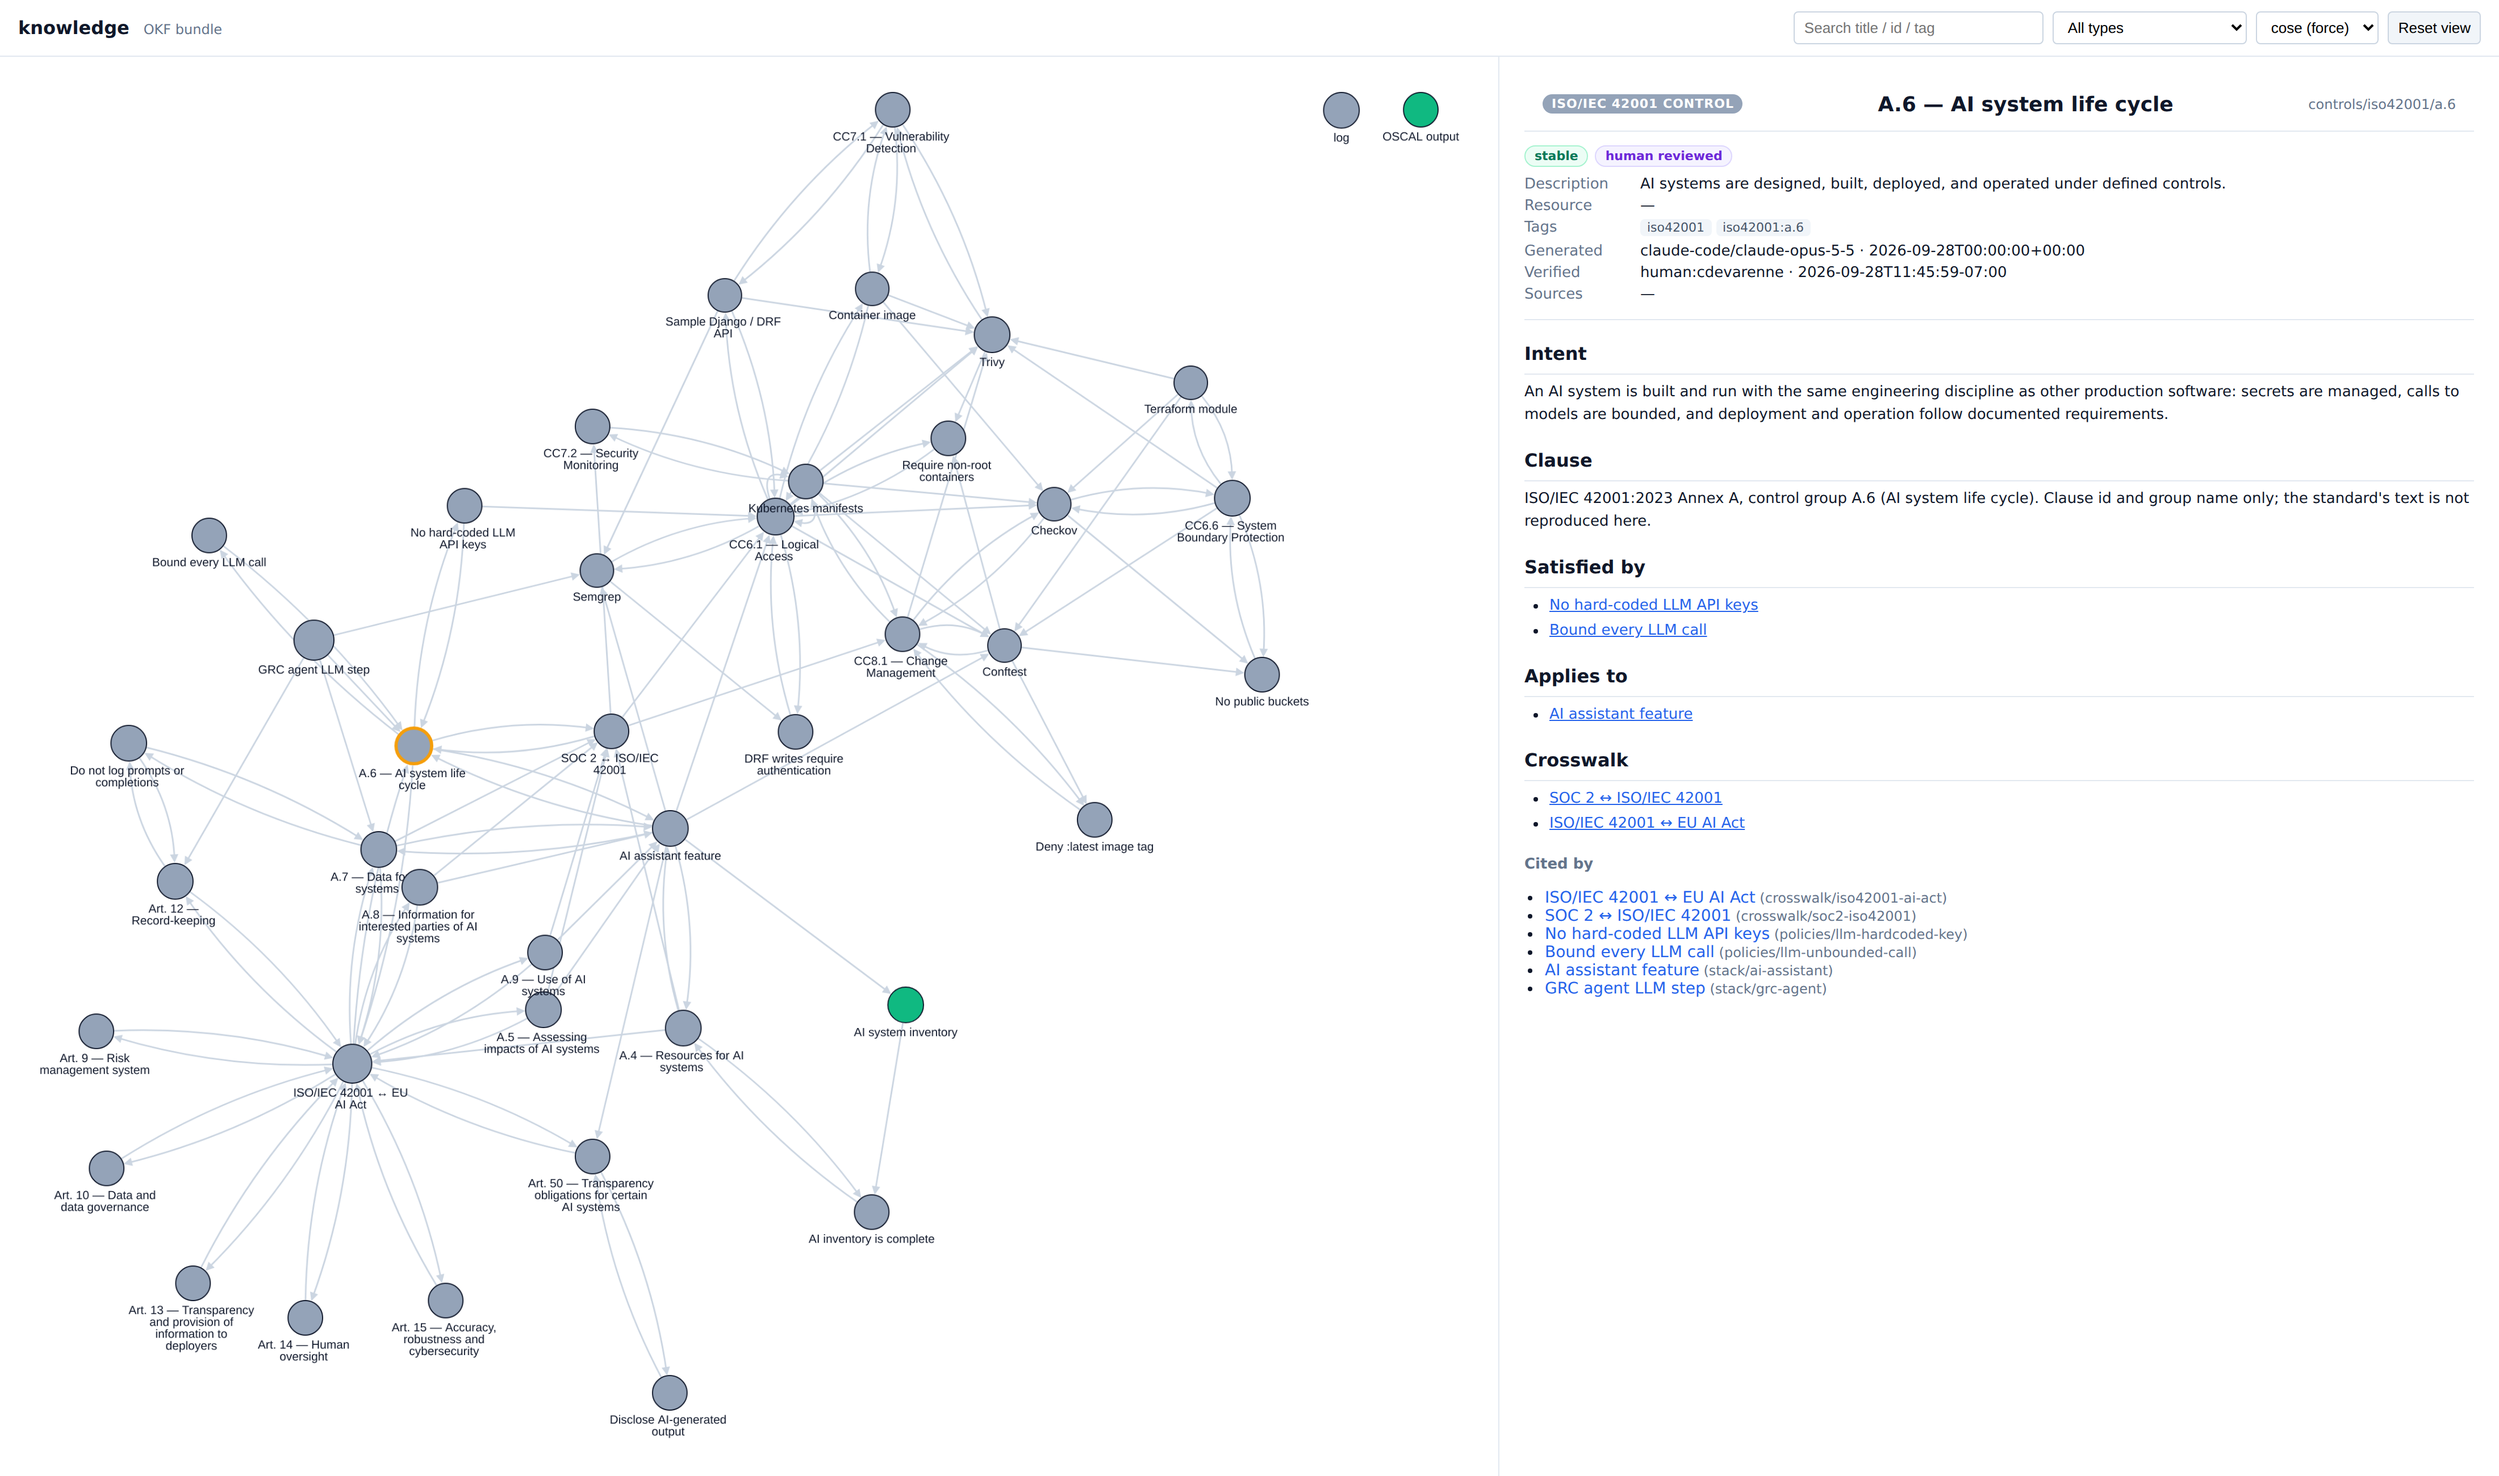
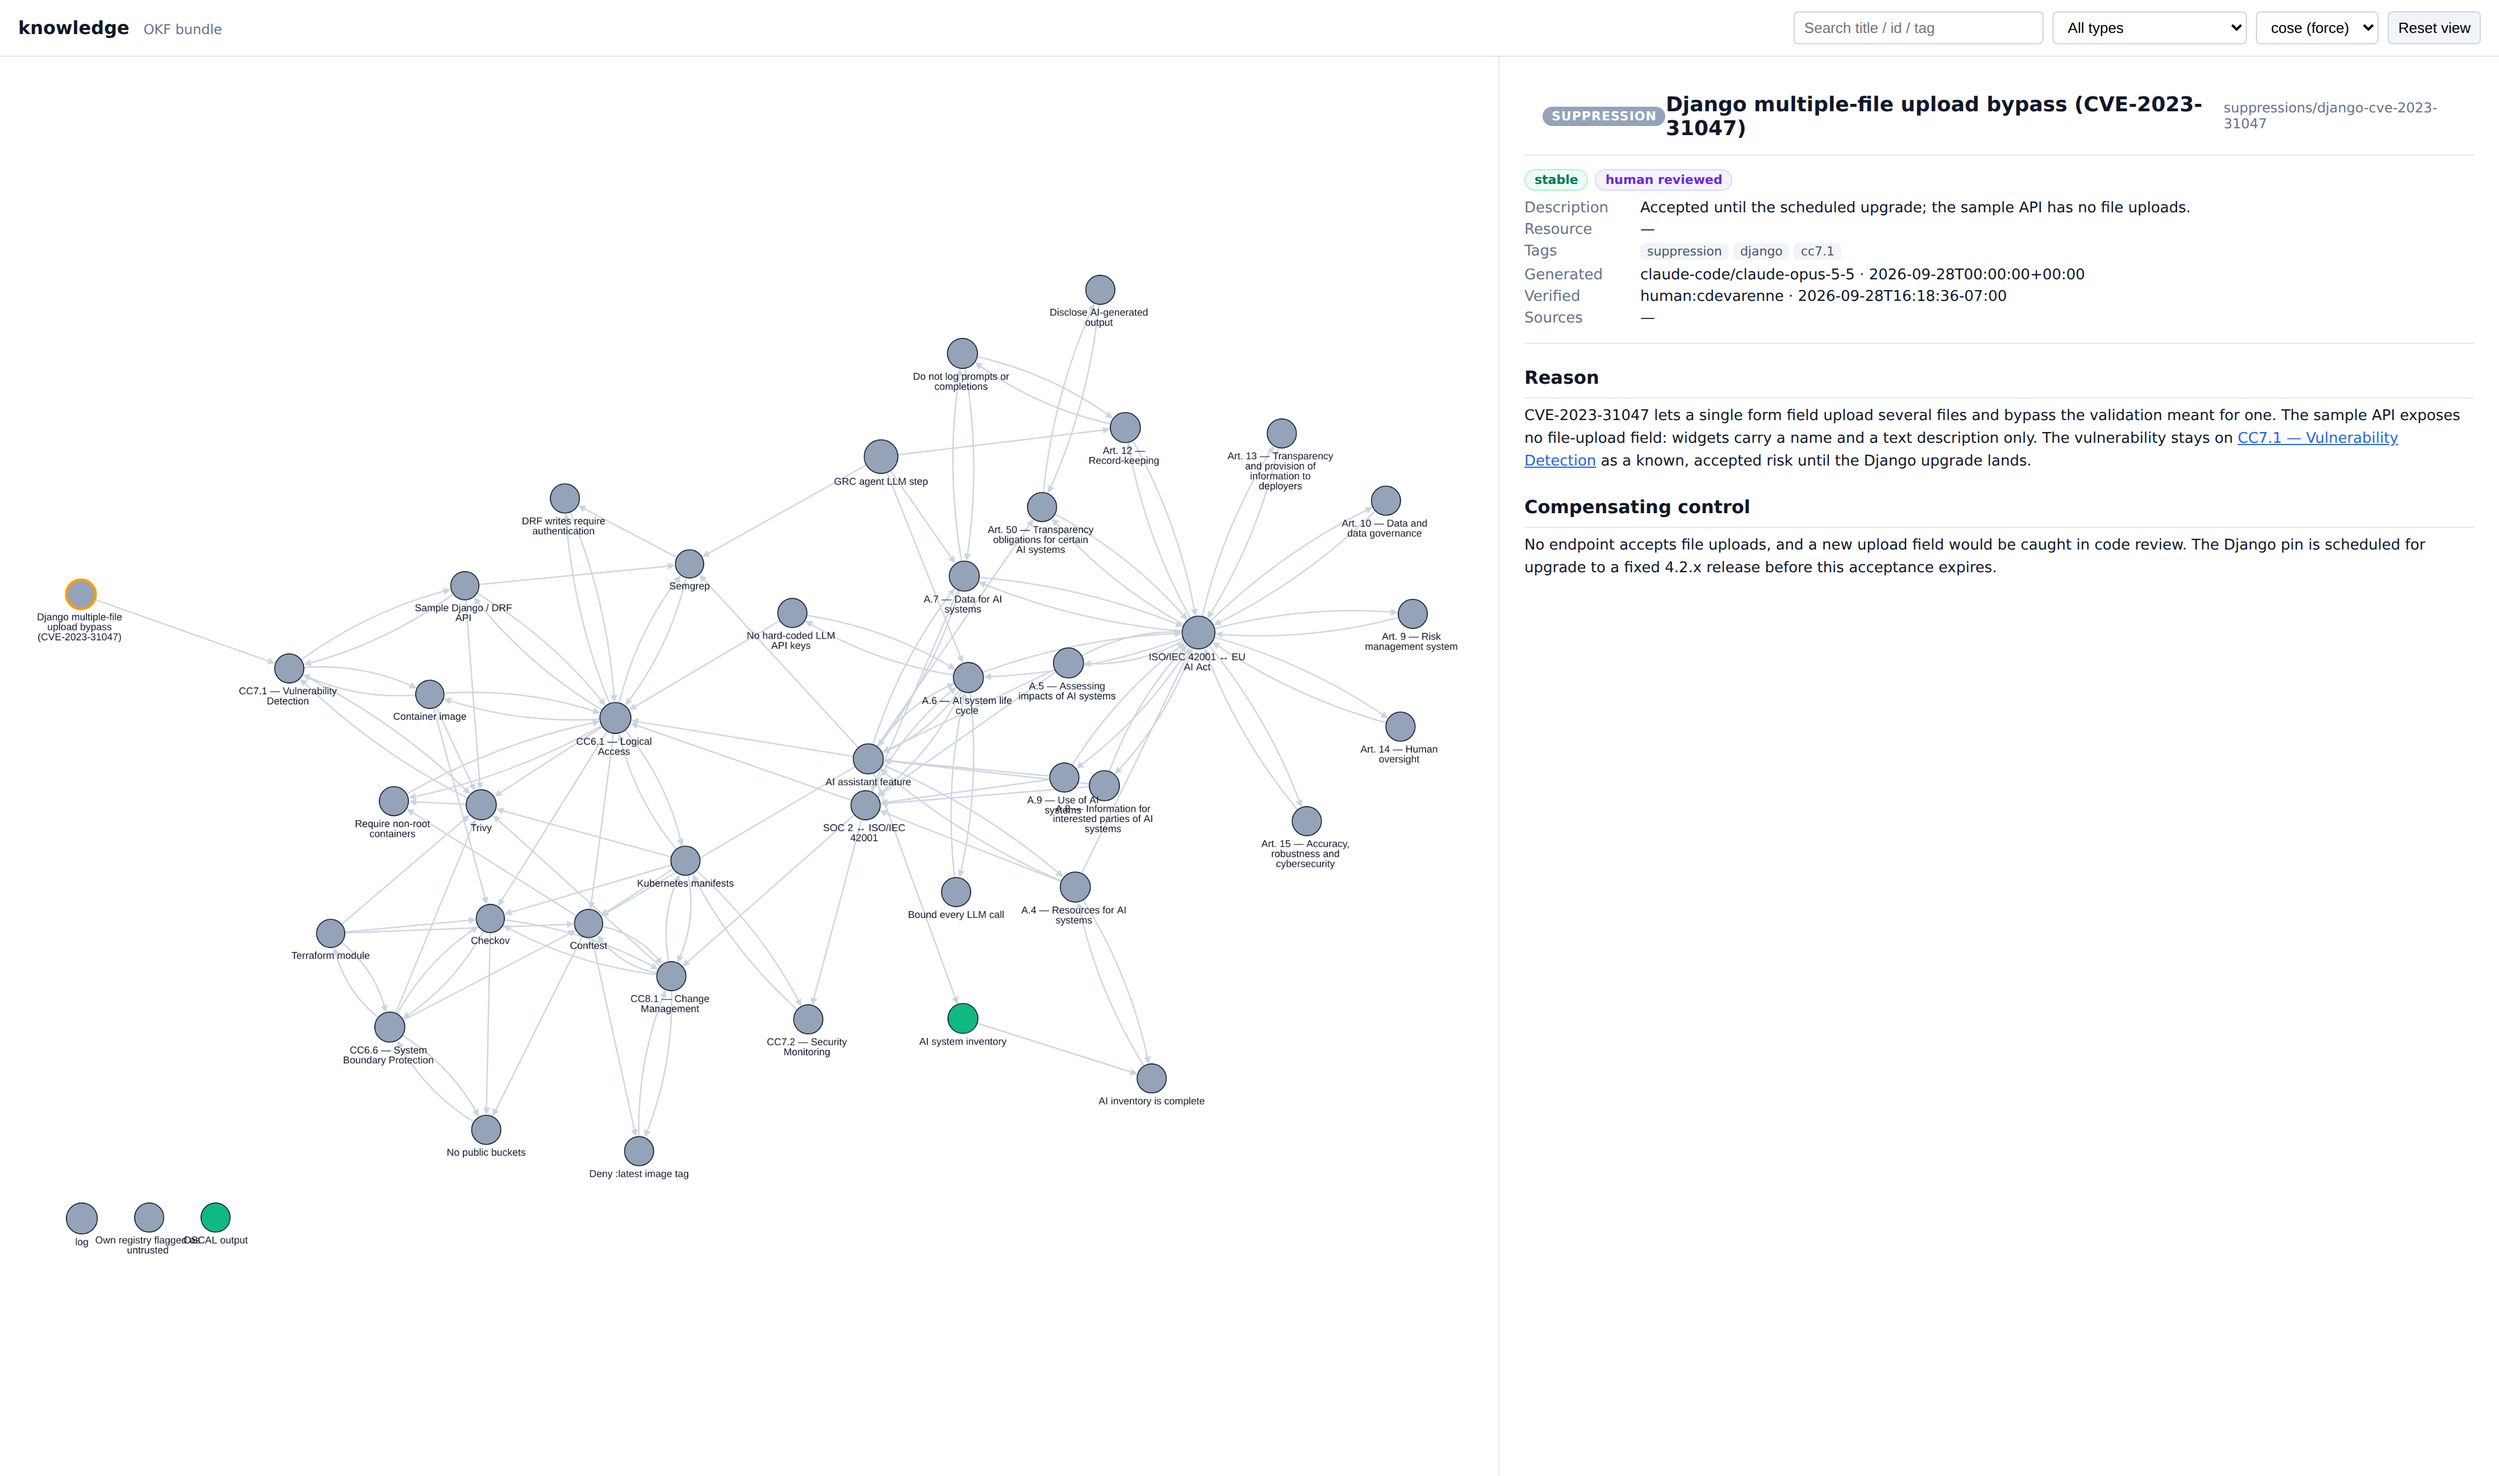
Refresh the knowledge graph screenshot with the suppression concepts
Docs only; no new tests.

diff --git a/README.md b/README.md
@@ -205,7 +205,8 @@ EU AI Act articles through the same `rule_ids` declarations, keyed
 *The OKF knowledge bundle (`knowledge/`) rendered by the OKF reference visualizer
 (`make render` → `out/knowledge-viz.html`). Each node is one concept file — a SOC 2,
 ISO/IEC 42001, or EU AI Act control, a crosswalk, a guardrail policy, a scanner,
-or a stack component — and each edge is a markdown link between them. It is a browsing aid; the scan pipeline reads the same files
+a stack component, or a suppression — and each edge is a markdown link between
+them. It is a browsing aid; the scan pipeline reads the same files
 directly and does not use the graph.*
 
 ## How this was built
